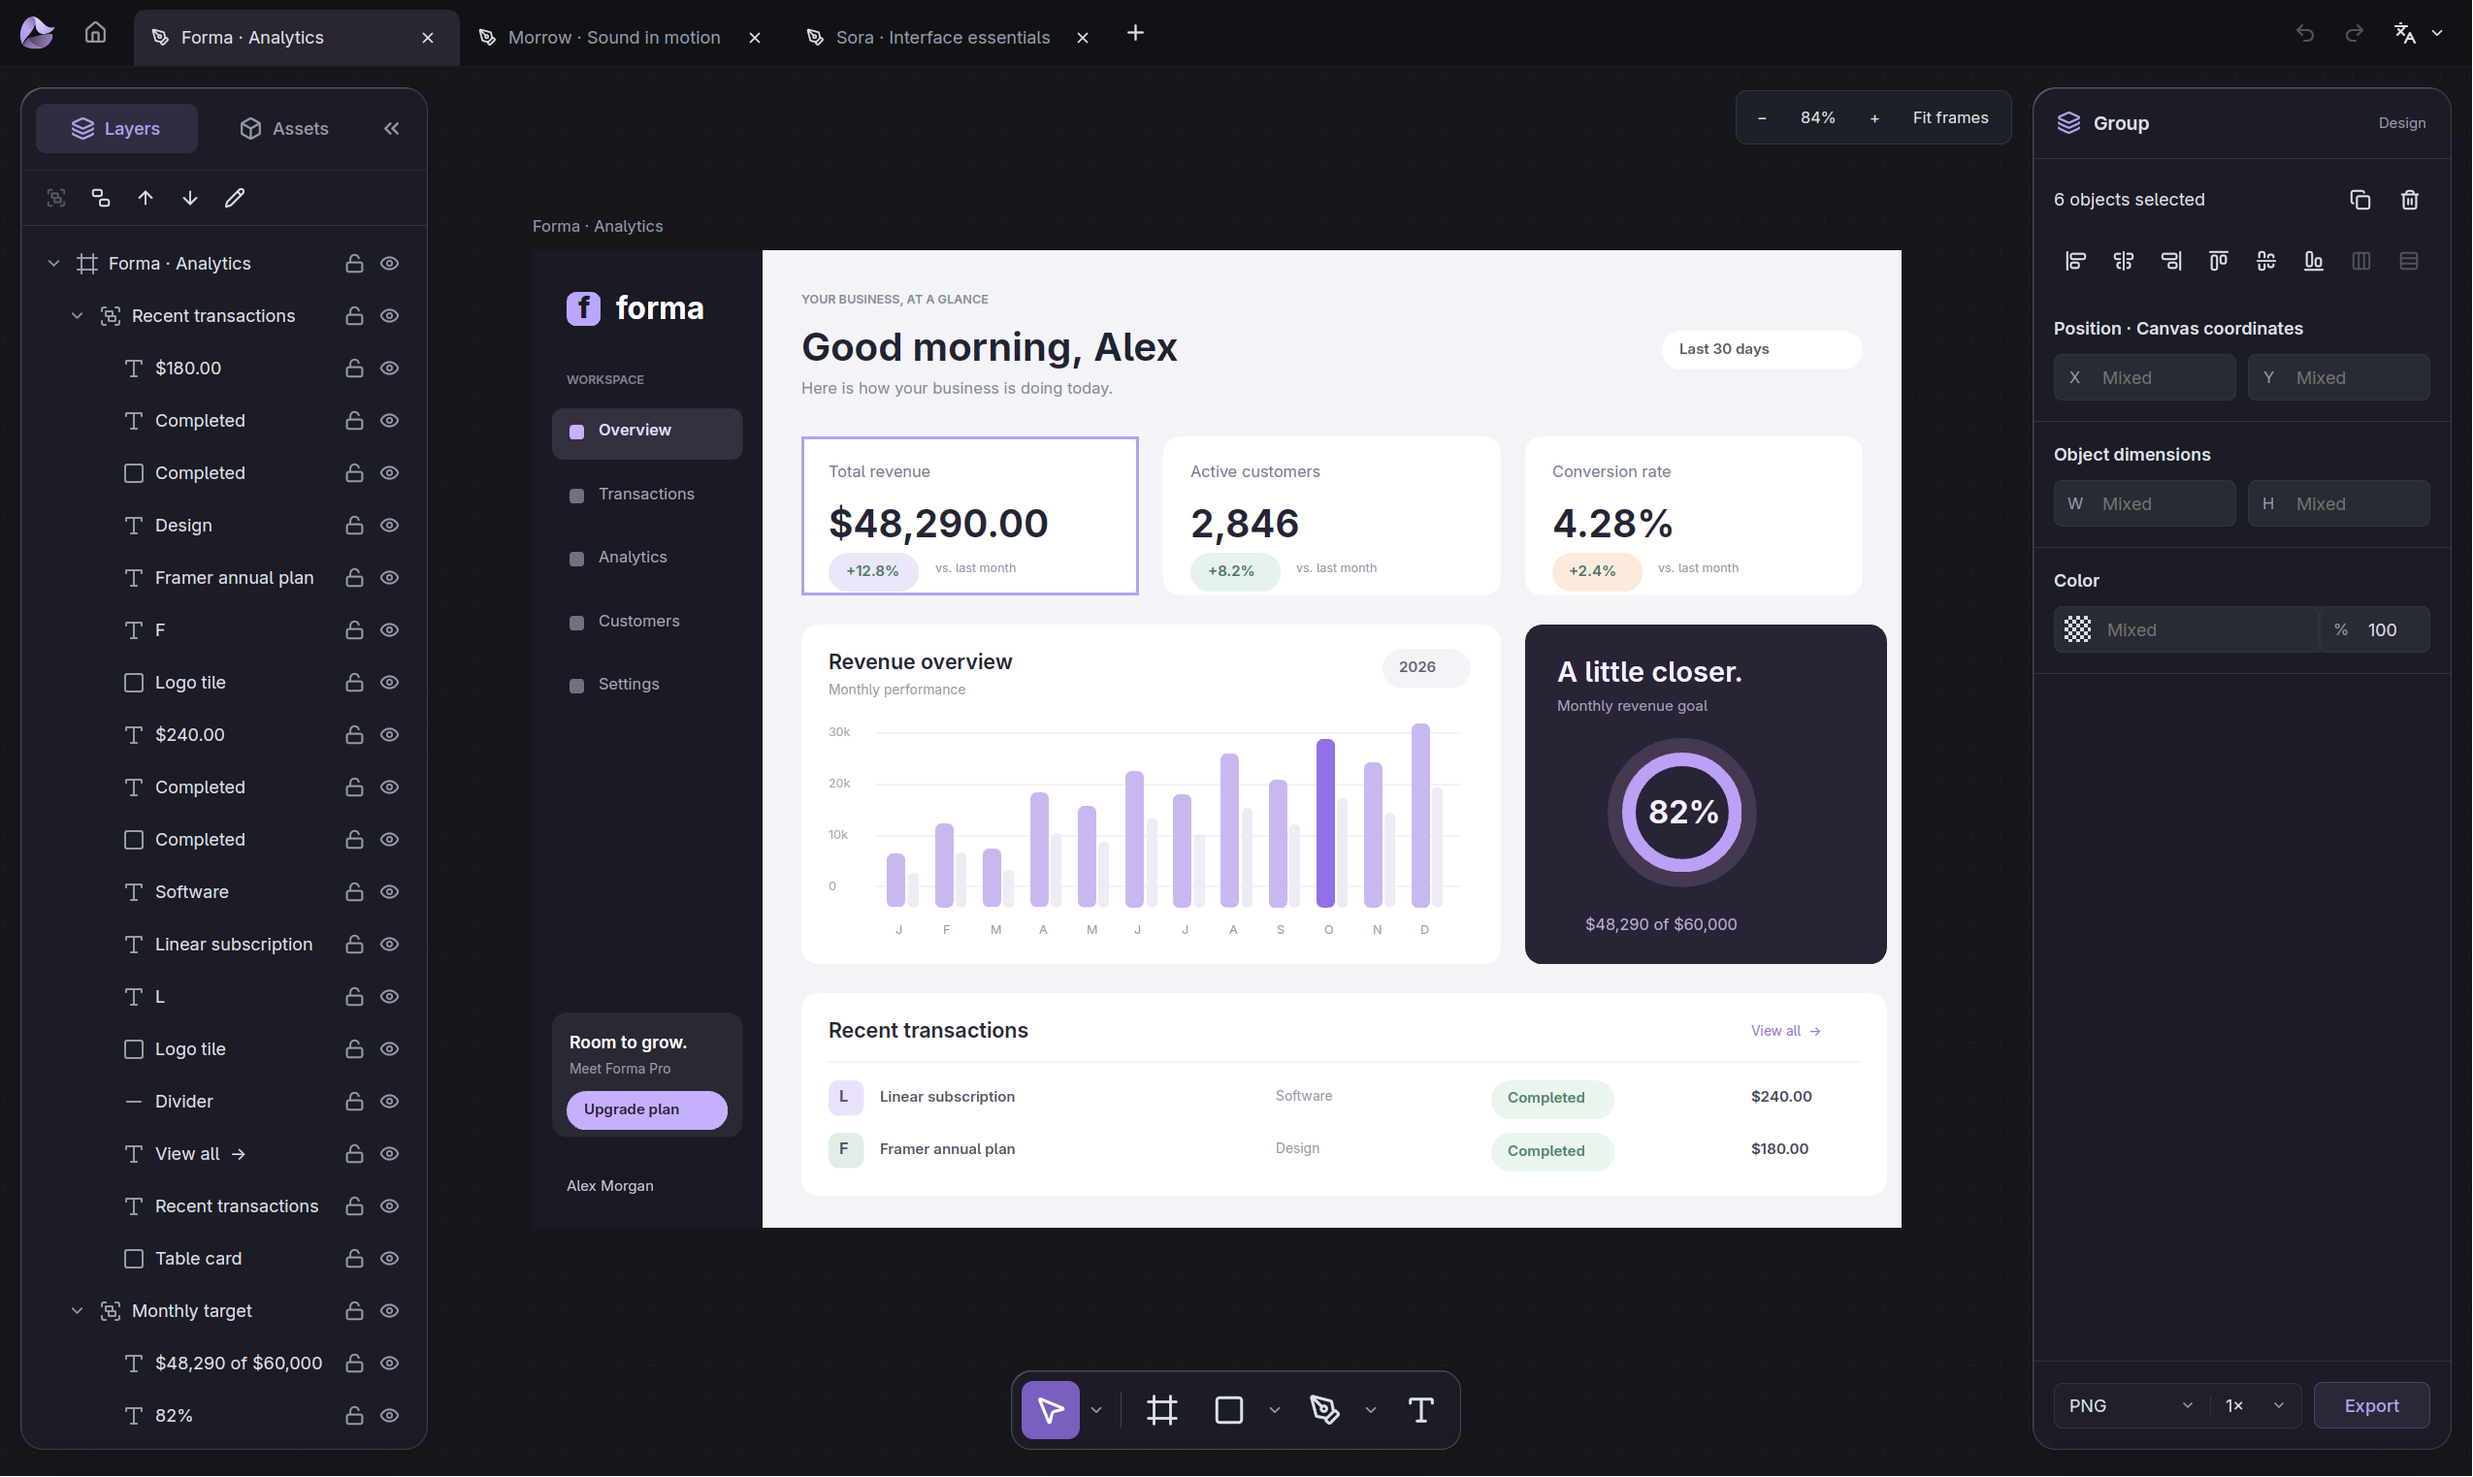
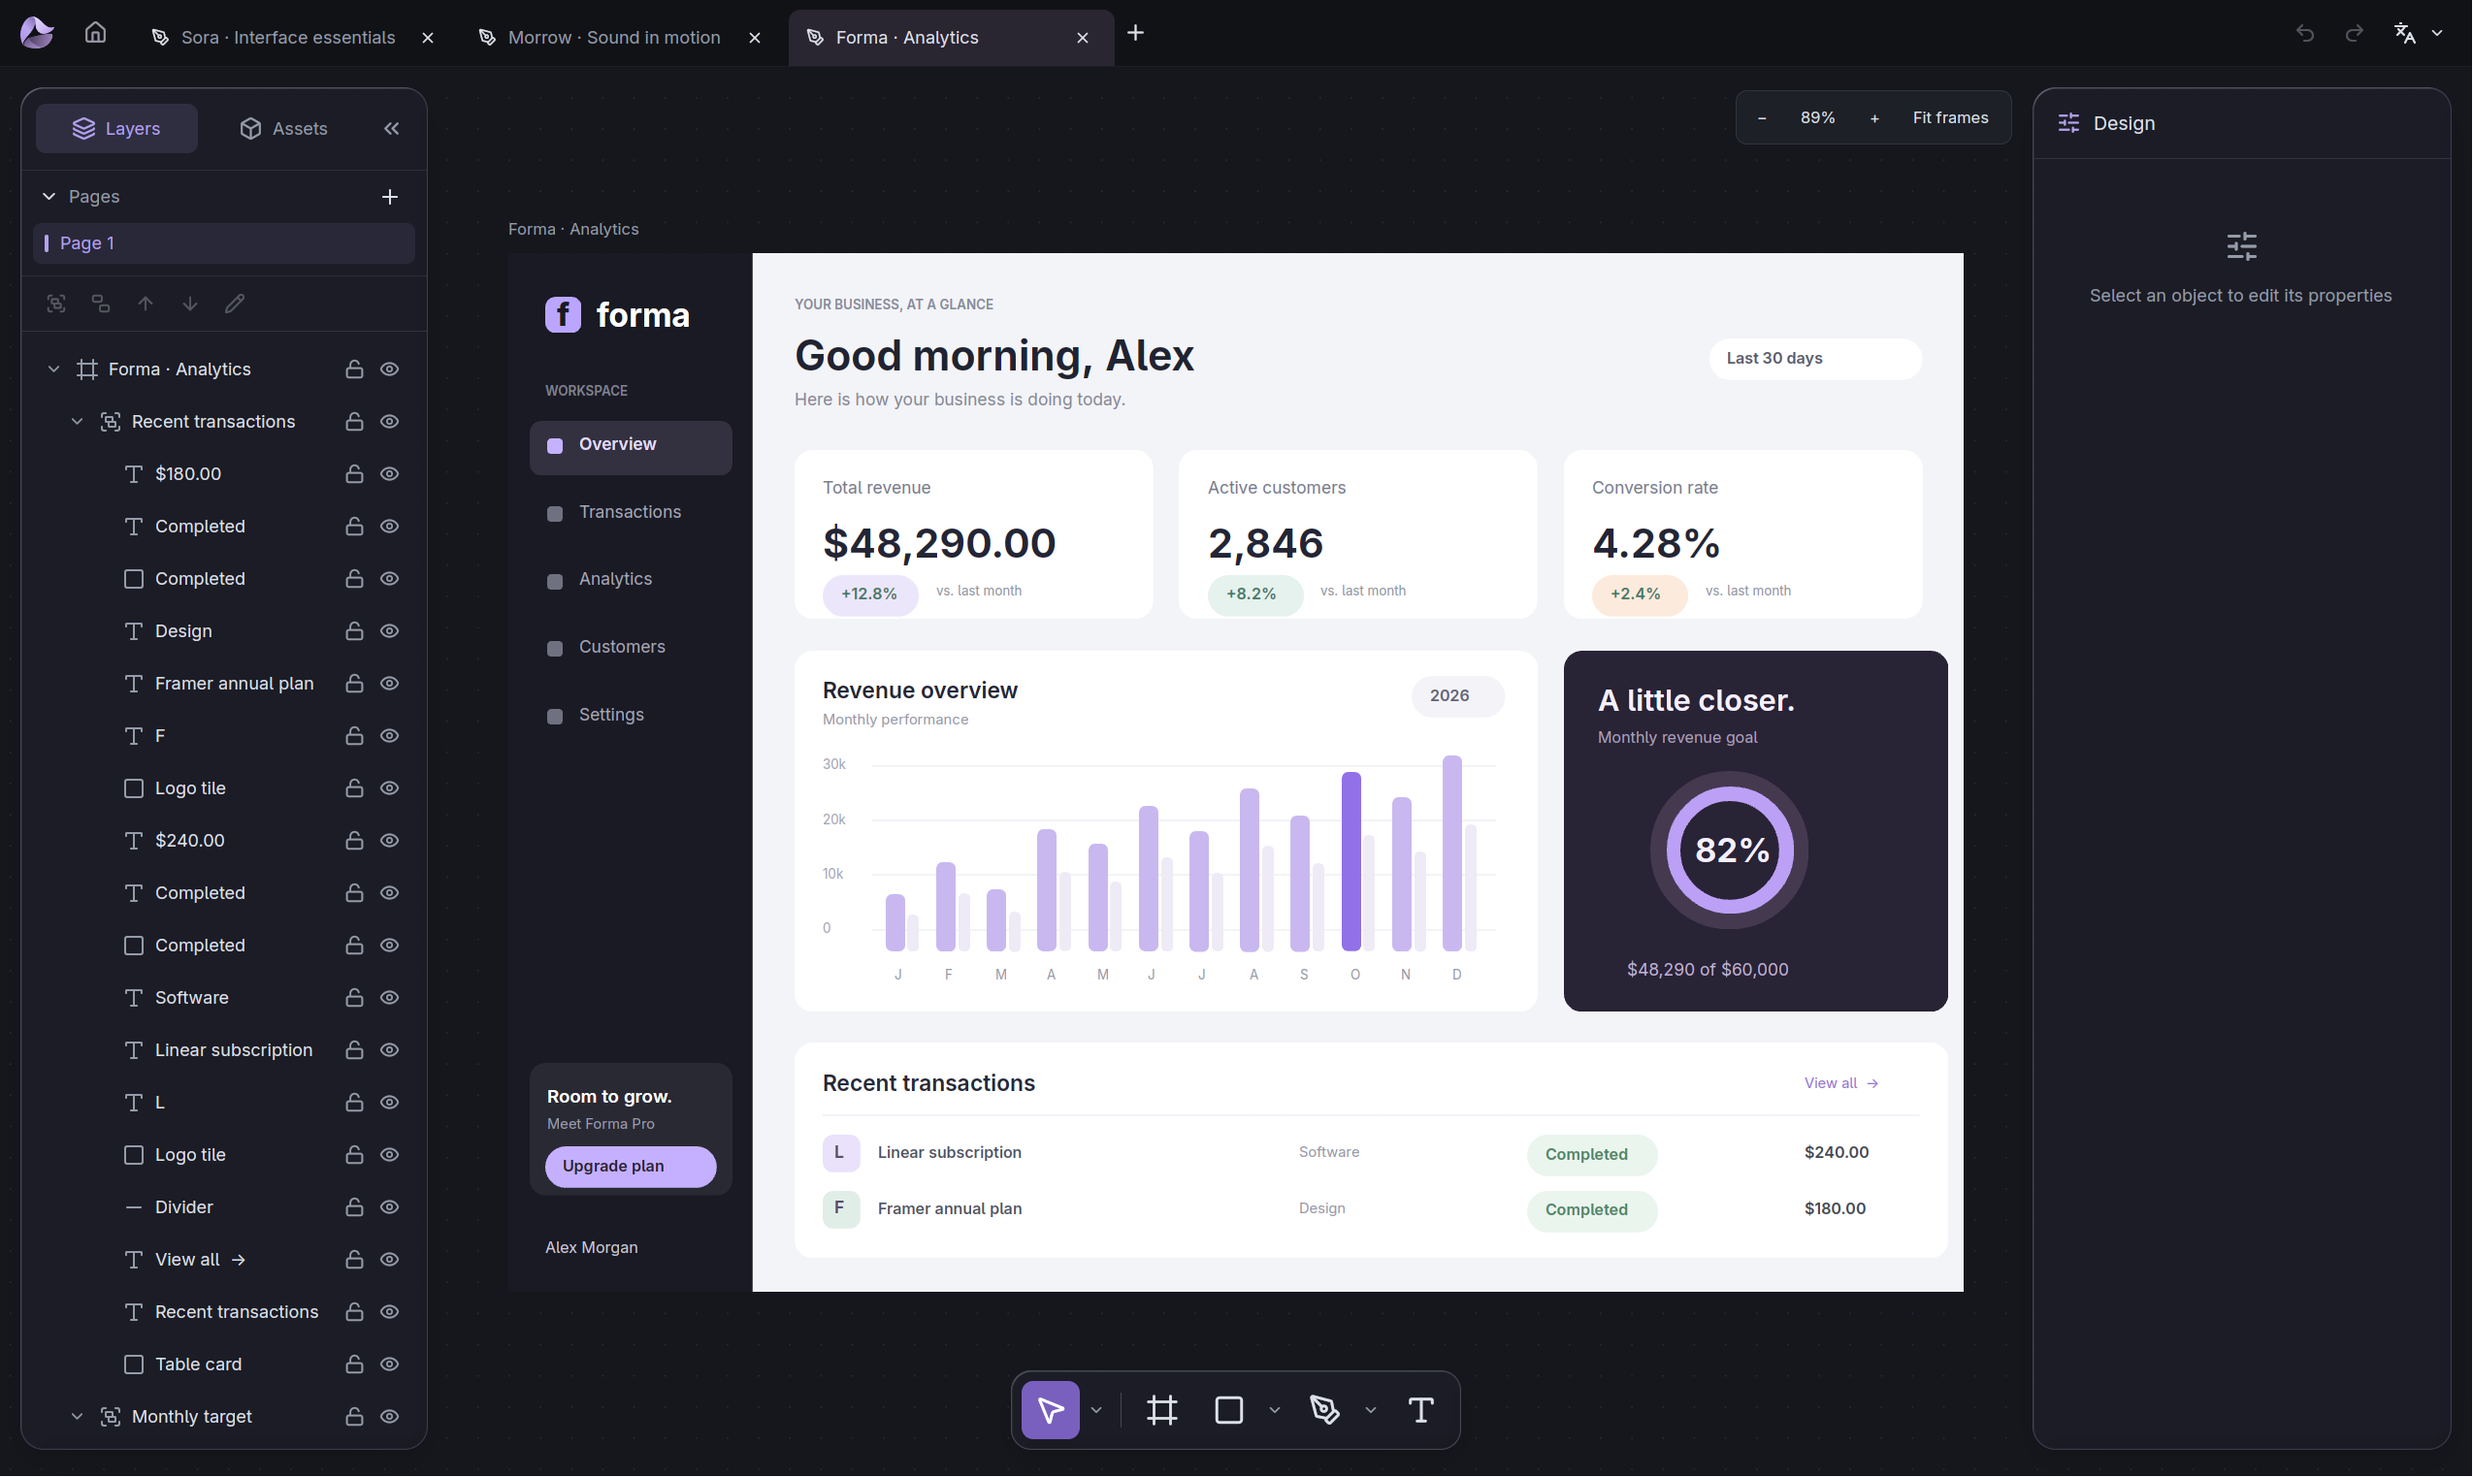
docs: refresh project overview, roadmap, and screenshots

diff --git a/README.md b/README.md
@@ -6,13 +6,37 @@ A design editor built with Rust and GPUI, available on desktop and the Web.
 
 Supports artboards, vectors, text, images and video, auto layout, reusable components, multi-page documents, and PNG/SVG export. Use it locally or connect to a server with personal and team workspaces. Available in English and Simplified Chinese.
 
-Primarily developed by GPT-6 Astra, Rovar is a Figma-like project I created to showcase what my GPUI can do. It already has a fairly broad feature set, though a complete product is not the main goal. I may keep developing it if enough people want to use it, or if I need it myself.
+I want to build a beautiful, cross-platform UI design tool that is easy for AI agents to operate, while using the project's real-world needs to improve and extend the GPUI framework.
 
 ![Forma analytics dashboard](docs/screenshots/analytics.png)
 
 ![Morrow music player](docs/screenshots/music.png)
 
 ![Sora interface components](docs/screenshots/components.png)
+
+## Features
+
+- **Canvas editing** — artboards, layers, multi-page documents, vector shapes, Bézier paths, and text.
+- **Auto layout** — horizontal and vertical layouts, alignment, padding, gaps, and fixed, hug-content, or fill sizing.
+- **Precision tools** — snapping, distance measurements, equal spacing, multi-selection resizing, repeated duplication, and on-canvas corner editing.
+- **Colors and gradients** — document color styles, color libraries, and linear, radial, angular, and diamond gradients.
+- **Reusable components** — component libraries, instances, overrides, and updates.
+- **Images and video** — media import, image fills, non-destructive cropping, and video playback.
+- **Local and self-hosted workspaces** — personal and team spaces, document and library synchronization, and version-conflict comparison.
+- **Export** — `.rovar` documents, PNG, and SVG.
+- **Desktop and Web** — a shared GPUI interface, English and Simplified Chinese; Web support is experimental.
+
+## Planned
+
+- [ ] **Responsive layouts** — constraints, grids, wrapping, and previews at multiple sizes.
+- [ ] **Component variants** — sizes, styles, and hover, pressed, and disabled states.
+- [ ] **Vector composition** — Boolean operations and masks.
+- [ ] **Visual effects** — shadows, layer and background blur, glass, glow, blend modes, and effect stacks.
+- [ ] **Animation** — keyframes, easing, animated gradients, and layer effects.
+- [ ] **Interactive presentations** — event triggers, screen navigation, overlays, scrollable areas, state switching, and transitions.
+- [ ] **Presentation sharing** — standalone playback and browser sharing through a self-hosted server.
+- [ ] **AI-assisted design** — natural-language generation, selection editing, layout refinement, and previews of editable results.
+- [ ] **GPUI DSL export** — layouts, styles, components, and assets for GPUI applications.
 
 ## Run
 
@@ -40,5 +64,9 @@ Windows packaging requires x64 MSVC, 7-Zip and Inno Setup; see [Windows packagin
 The Web editor is experimental. Open your server's address in a browser that supports WebGPU, using HTTPS or localhost.
 
 Building the Web editor requires [Trunk](https://trunkrs.dev/) and the Rust `wasm32-unknown-unknown` target. See [server setup](crates/rovar-server/README.md) for deployment and registration settings.
+
+## Development and contributions
+
+Issues and pull requests are welcome! Feel free to report bugs, suggest features, discuss design improvements, or contribute code and documentation.
 
 [File format](crates/rovar-format/FORMAT.md) · [MIT License](LICENSE)

diff --git a/README.zh-CN.md b/README.zh-CN.md
@@ -6,13 +6,37 @@
 
 提供画板、矢量、文字、图片与视频、自动布局、组件复用、多页面文档和 PNG/SVG 导出。可完全本地使用，也可连接服务器，使用个人和团队空间。支持英文与简体中文。
 
-这个类 Figma 项目主要由 GPT-6 Astra 开发，目的是展示我的 GPUI 的能力。目前功能已比较完善，但我不一定会把它做成完整产品。如果想用的人多，或者以后我自己需要，可能会继续完善。
+我希望打造一个美观、跨平台、方便 AI 操作的 UI 设计工具，并通过这个项目的实际需求，持续完善 GPUI 框架的能力。
 
 ![Forma 数据面板](docs/screenshots/analytics.png)
 
 ![Morrow 音乐播放器](docs/screenshots/music.png)
 
 ![Sora 界面组件](docs/screenshots/components.png)
+
+## 功能
+
+- **画布编辑** — 画板、图层、多页面文档、矢量图形、贝塞尔路径与文字。
+- **自动布局** — 横向与纵向布局、对齐、内边距、间距，以及固定、适应内容和填充尺寸。
+- **精细操作** — 吸附、距离测量、等距排列、多选缩放、连续复制与画布圆角调节。
+- **颜色与渐变** — 文档颜色样式、颜色库，以及线性、径向、角向和菱形渐变。
+- **组件复用** — 组件库、组件实例、属性覆盖与更新。
+- **图片与视频** — 媒体导入、图片填充、无损裁剪与视频播放。
+- **本地与自托管工作区** — 个人与团队空间、文档及资源库同步、版本冲突对比。
+- **导出** — `.rovar` 文档、PNG 与 SVG。
+- **桌面端与 Web** — 统一的 GPUI 界面，支持简体中文和英文；Web 端为实验性功能。
+
+## 计划
+
+- [ ] **响应式布局** — 布局约束、网格、自动换行与多尺寸预览。
+- [ ] **组件变体** — 尺寸、样式，以及悬停、按下、禁用等状态。
+- [ ] **矢量组合** — 布尔运算与蒙版。
+- [ ] **视觉特效** — 阴影、图层模糊、背景模糊、玻璃、发光、混合模式与特效叠加。
+- [ ] **动画** — 关键帧、缓动、动态渐变与图层特效。
+- [ ] **交互演示** — 事件触发、页面跳转、弹层、滚动区域、状态切换与转场。
+- [ ] **演示分享** — 独立播放与自托管浏览器分享。
+- [ ] **AI 辅助设计** — 自然语言生成、选区修改、布局优化与可编辑结果预览。
+- [ ] **GPUI DSL 导出** — 面向 GPUI 应用的布局、样式、组件与资源导出。
 
 ## 运行
 
@@ -40,5 +64,9 @@ Windows 打包需要 x64 MSVC、7-Zip 和 Inno Setup，详见 [Windows 打包说
 Web 编辑器目前为实验性功能，使用支持 WebGPU 的浏览器，通过 HTTPS 或 localhost 打开服务器地址。
 
 构建 Web 编辑器需要 [Trunk](https://trunkrs.dev/) 和 Rust 的 `wasm32-unknown-unknown` 编译目标。部署和注册配置详见[服务器说明](crates/rovar-server/README.zh-CN.md)。
+
+## 开发与贡献
+
+欢迎提交 Issue 和 PR！无论是反馈问题、提出功能建议、讨论设计改进，还是贡献代码与文档，都欢迎参与。
 
 [文件格式](crates/rovar-format/FORMAT.zh-CN.md) · [MIT 许可证](LICENSE)
